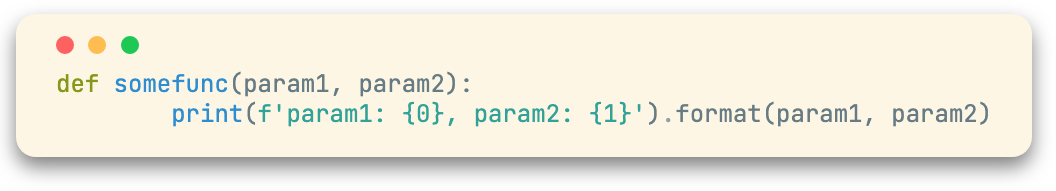
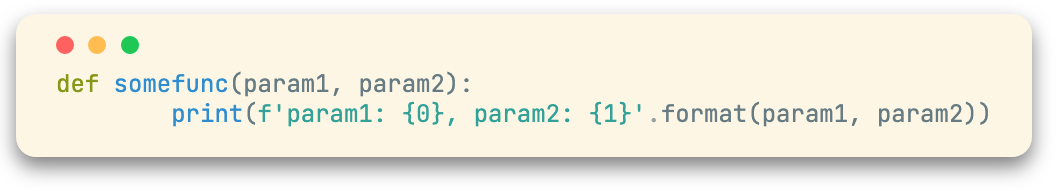
wrong syntax at example output + placeholder code

Changed region(s): [[0.5938, 0.5236, 0.9375, 0.6545]]

diff --git a/gui.py b/gui.py
@@ -238,7 +238,7 @@ exportLayout.addWidget(exportButton)
 # * Base settings
 
 codeBox.setPlainText("""def somefunc(param1, param2):
-\tprint(f'param1: {0}, param2: {1}').format(param1, param2)""")
+\tprint(f'param1: {0}, param2: {1}'.format(param1, param2))""")
 fontSizeBox.setText('12')
 langDropdown.setCurrentText('Python')
 themeDropdown.setCurrentText('one-dark')
